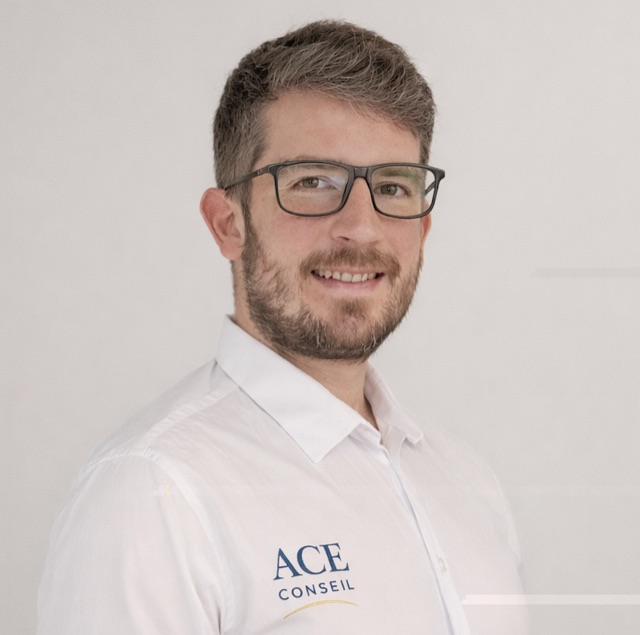
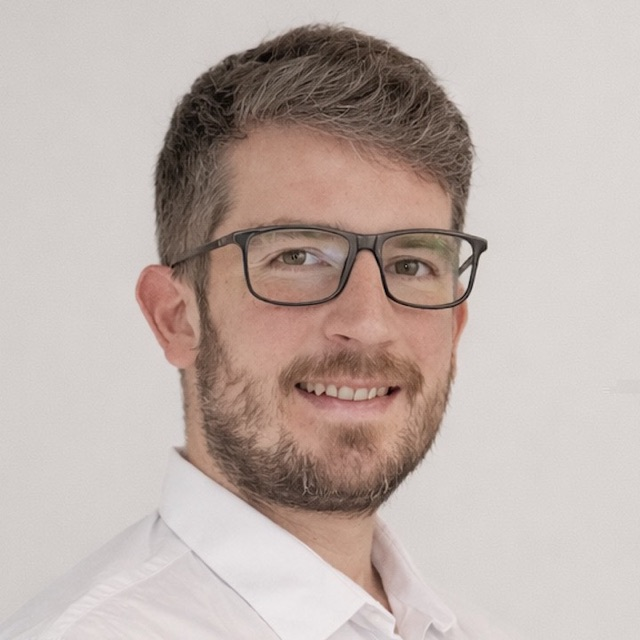
Photos équipe : recadrage de Mateusz sur le visage, cercles homogènes
La photo de Jennifer est un gros plan, celle de Mateusz était un plan
buste : son visage paraissait plus petit dans le cercle. Recadrage
carré centré sur le visage (720 px depuis l'original, sorti en 640),
même échelle visuelle dans les deux cercles ; l'object-position CSS
devenu inutile est retiré.

diff --git a/index.html b/index.html
@@ -252,7 +252,6 @@ em.gold{font-style:italic;color:var(--gold)}
 .team-grid{display:grid;grid-template-columns:1fr 1fr;gap:clamp(28px,3vw,48px);margin-top:64px;align-items:stretch}
 .team-card{border:1px solid rgba(201,162,77,.2);padding:44px;position:relative;background:linear-gradient(160deg,rgba(36,53,88,.5),rgba(17,29,51,.3))}
 .team-photo{width:116px;height:116px;border-radius:50%;object-fit:cover;display:block;margin-bottom:26px;border:1px solid var(--border-gold)}
-.team-photo-bas{object-position:center 15%}
 .team-card h3{font-size:1.7rem}
 .team-role{font-size:.8rem;letter-spacing:.18em;text-transform:uppercase;color:var(--gold);margin:10px 0 20px;font-weight:500}
 .team-card p{color:var(--muted-light);font-size:.98rem;max-width:46ch}
@@ -768,7 +767,7 @@ em.gold{font-style:italic;color:var(--gold)}
         <p>Votre interlocutrice de bout en bout&nbsp;: elle cadre le besoin, construit la proposition et suit chaque mission jusqu'au résultat. Plus de dix ans d'expérience en VEFA et marchés publics. Elle porte également l'activité AMO Immobilier du cabinet.</p>
       </div>
       <div class="team-card reveal" data-d="3">
-        <img class="team-photo team-photo-bas" src="/assets/mateusz.jpg" alt="Mateusz, cofondateur d'ACE Conseil" width="116" height="116" loading="lazy">
+        <img class="team-photo" src="/assets/mateusz.jpg" alt="Mateusz, cofondateur d'ACE Conseil" width="116" height="116" loading="lazy">
         <h3>Mateusz</h3>
         <p class="team-role">Cofondateur · Direction technique &amp; IA</p>
         <p>Conçoit et construit les systèmes&nbsp;: agents IA, automatisations, sites, référencement. Il intervient sur chaque mission, du diagnostic au transfert, en lien direct avec Jennifer.</p>